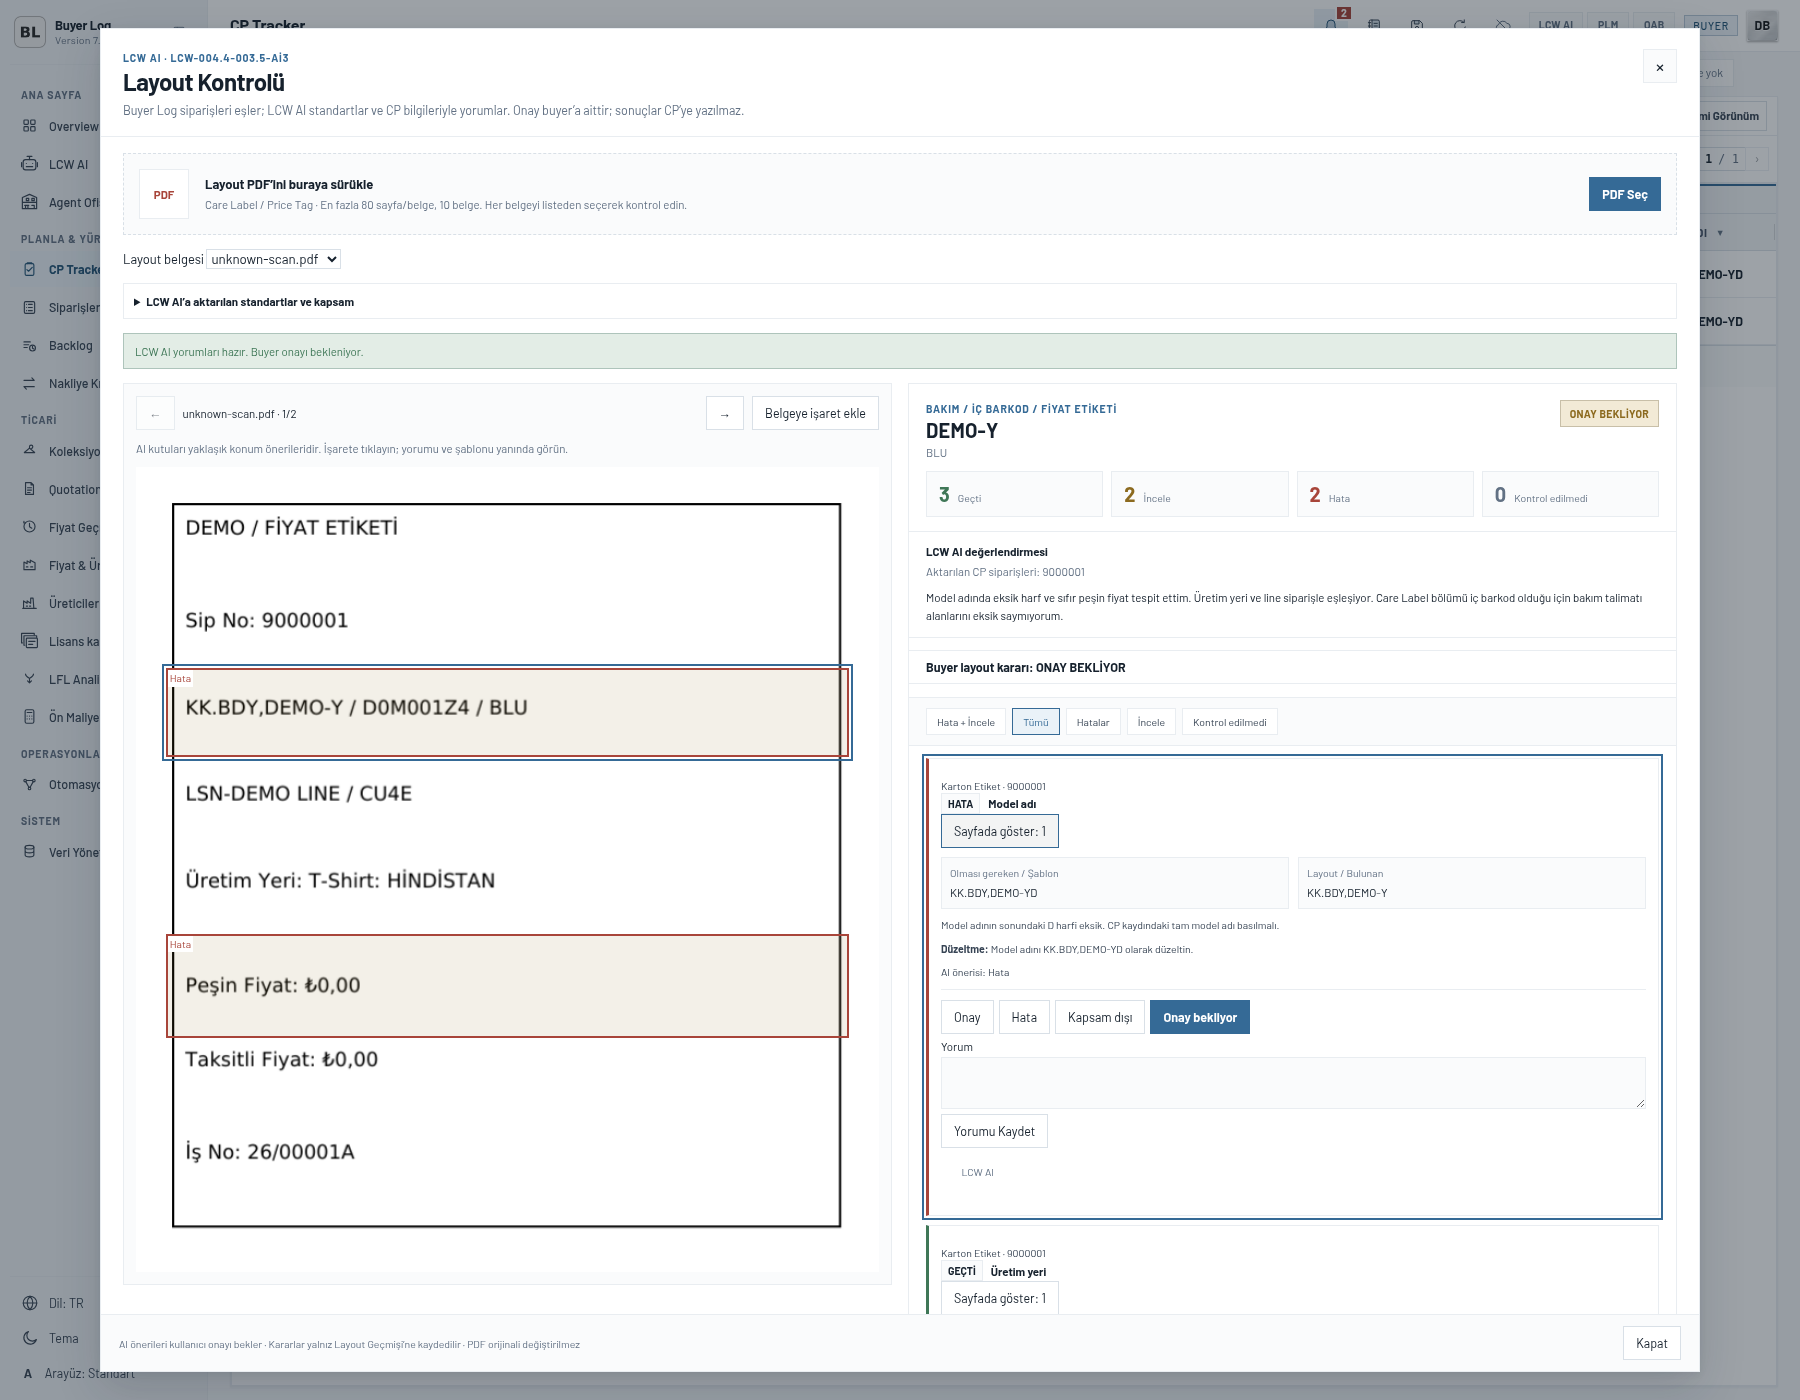
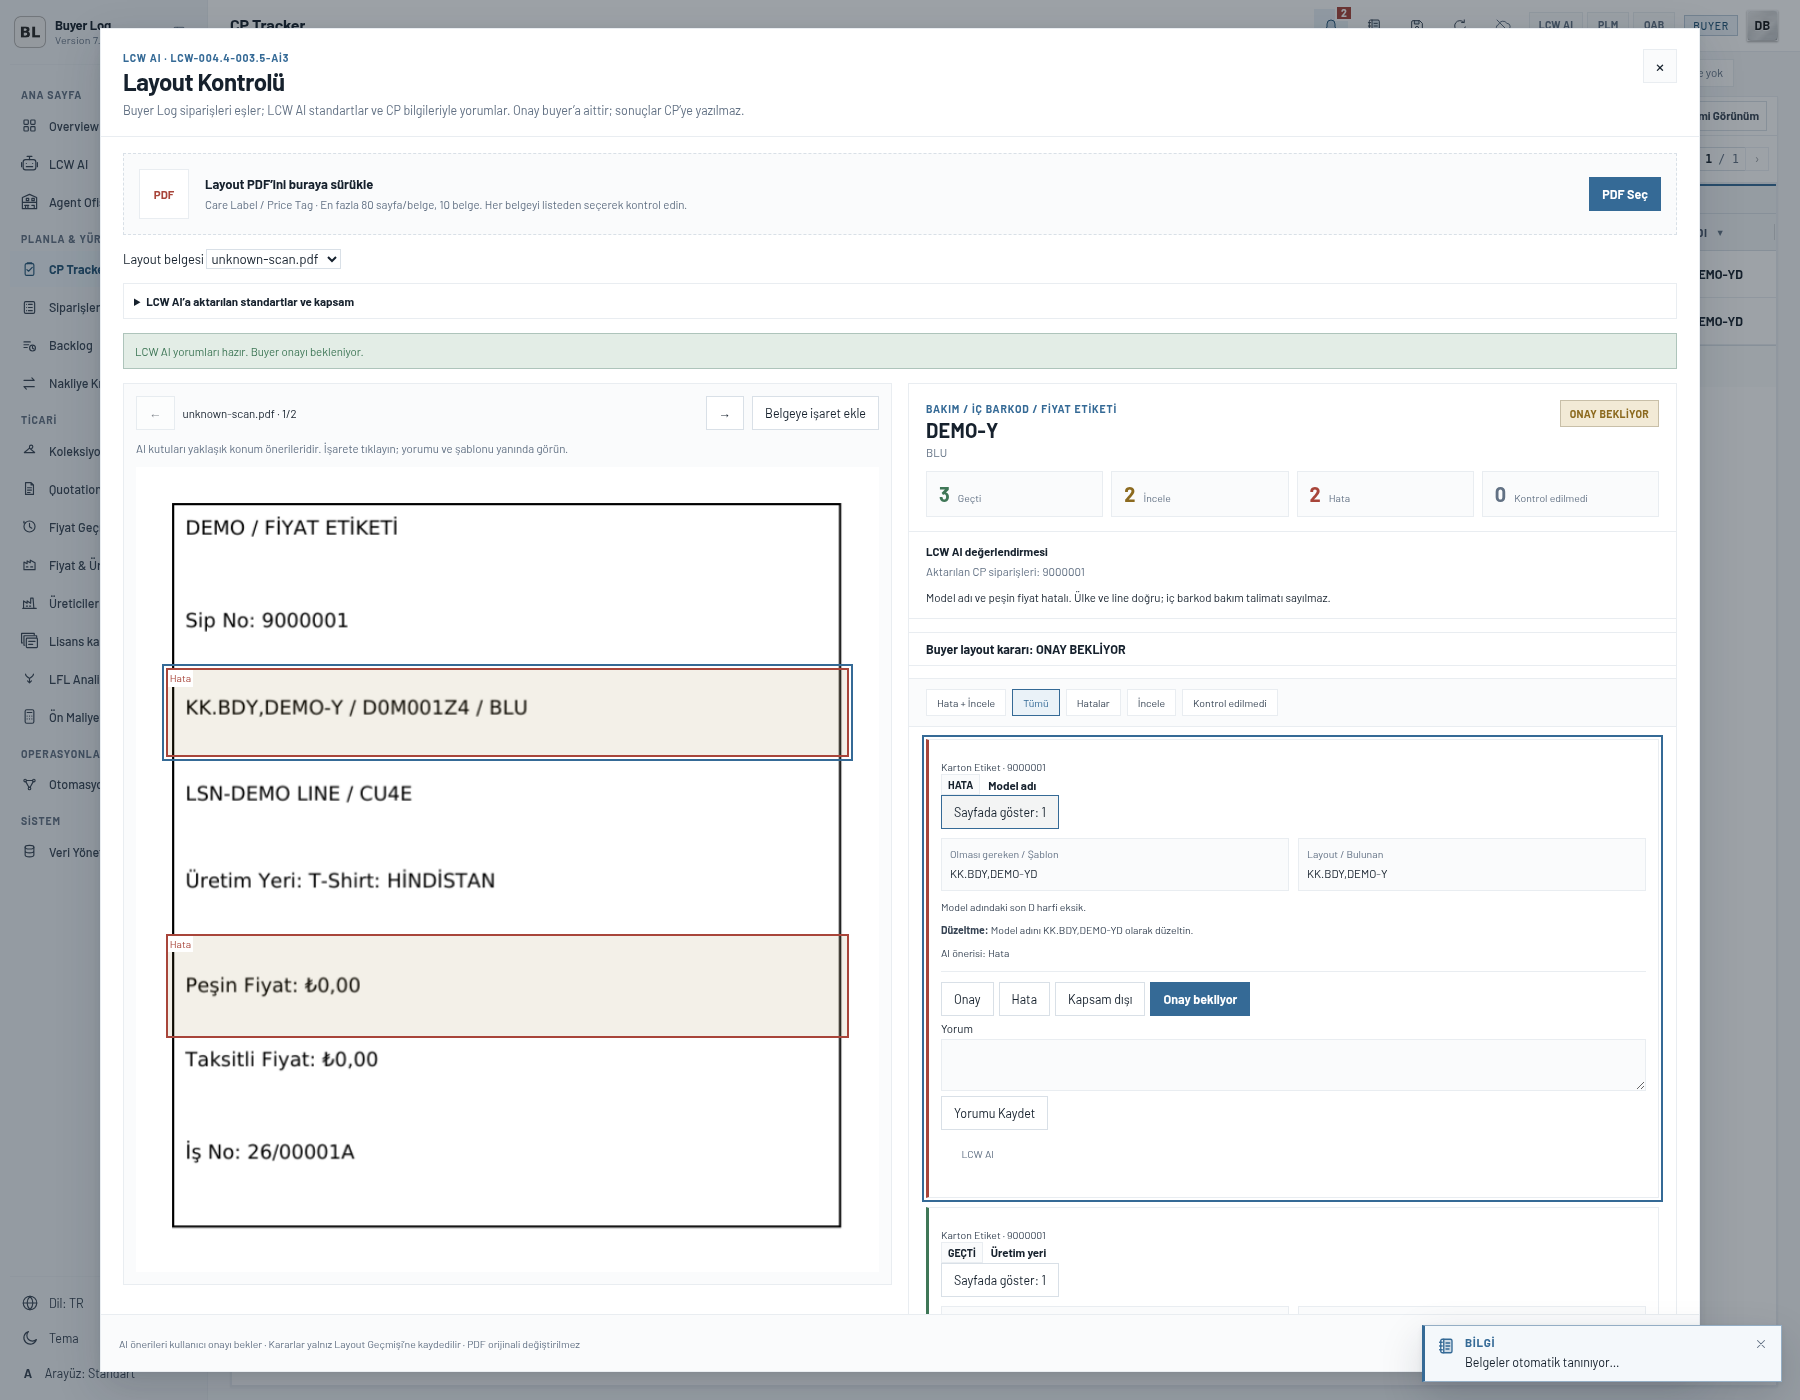
fix(layout-control): request short and direct LCW AI findings

diff --git a/resources/app/server/lib/lcwai/lcwai-prompt.js b/resources/app/server/lib/lcwai/lcwai-prompt.js
@@ -157,7 +157,7 @@ const CONTRACTS = Object.freeze({
     label:{tr:'Layout · LCW AI İncelemesi',en:'Layout · LCW AI Review'},
     fields:Object.freeze({
       documentType:{type:'string',required:true,max:20,hint:{tr:'CARE_LABEL, INNER_BARCODE, PRICE_TAG, MIXED veya UNKNOWN',en:'CARE_LABEL, INNER_BARCODE, PRICE_TAG, MIXED or UNKNOWN'}},
-      summary:{type:'string',required:true,max:5000,hint:{tr:'CP siparişleri ve ekli iki standarda göre incelemenin sonucu; yalnız senin yorumun',en:'Your review conclusion against CP orders and the two attached standards'}},
+      summary:{type:'string',required:true,max:500,hint:{tr:'En fazla iki kısa cümle ve 35 kelime: yalnız sonuç ve öncelikli işlem; giriş/tekrar yok',en:'At most two short sentences and 35 words: only the conclusion and priority action; no introduction or repetition'}},
       inspectedPages:{type:'string[]',required:true,max:8,items:80},
       findings:{type:'string[]',required:true,max:5000,items:120,hint:{tr:'JSON metinleri: {section:CARE_LABEL|INNER_BARCODE|PRICE_TAG|DOCUMENT,field,title,verdict:MATCH|ERROR|REVIEW|NOT_VISIBLE|NOT_APPLICABLE,orderCode,actual,expected,comment,correction,page,bbox:[x,y,w,h],standardType,standardPage,severity}; bulgu, doğru değer ve gerekçeyi sen üret',en:'JSON strings: {section:CARE_LABEL|INNER_BARCODE|PRICE_TAG|DOCUMENT,field,title,verdict:MATCH|ERROR|REVIEW|NOT_VISIBLE|NOT_APPLICABLE,orderCode,actual,expected,comment,correction,page,bbox:[x,y,w,h],standardType,standardPage,severity}; author the finding, correct value and reason yourself'}},
     }),
@@ -362,7 +362,7 @@ function buildPrompt({ source, task, context, guide, lang } = {}) {
         ? 'Reply with ONE JSON object only: no code fence, no text before or after it. Write "explanation" in English.'
         : 'Yalnız TEK bir JSON nesnesiyle cevap ver: kod bloğu yok, öncesinde/sonrasında metin yok. "explanation" Türkçe olsun.');
     } else if(key==='layout-review'){
-      lines.push(english?'Reply with ONE JSON object. Write summary, finding titles, comments and corrections in English. Keep actual printed evidence in its original spelling.':'Yalnız TEK JSON nesnesiyle cevap ver. summary, bulgu başlıkları, yorum ve düzeltmeleri Türkçe yaz. Basılı gerçek kanıtın özgün yazımını koru.');
+      lines.push(english?'Reply with ONE JSON object. Write very short, direct summary, finding titles, comments and corrections in English. Keep actual printed evidence in its original spelling.':'Yalnız TEK JSON nesnesiyle cevap ver. summary, bulgu başlıkları, yorum ve düzeltmeleri Türkçe, çok kısa ve net yaz. Basılı gerçek kanıtın özgün yazımını koru.');
     } else if (key === 'layout-control') {
       lines.push(english
         ? 'Reply with ONE JSON object only: no code fence, no text before or after it. Preserve all extracted label values in the language and spelling printed in the supplied page images; only "explanation" should be English.'
@@ -390,7 +390,7 @@ function buildPrompt({ source, task, context, guide, lang } = {}) {
         ? 'Each CONTEXT.fabrics item is "<code> :: <PLM fabric text>". Write one "cards" line for every code, using exactly that code. "summary" is what a buyer sees in the Collection table: the full fabric type, yarn count, weight and composition in that order. Write it twice: "summary" in Turkish (e.g. "Süprem · 30/1 Ne Penye · 150 gsm · 100% Pamuk") and "summaryEn" in English with standard textile terms (e.g. "Single Jersey · 30/1 Ne Combed · 150 gsm · 100% Cotton"); both carry exactly the same numbers. Product naming convention: spell this fibre as "Polyester" in the Turkish "summary" and "Poliester" in the English "summaryEn" (even though standard English usually spells it "Polyester"). Fill the other fields only from the text; leave a field empty rather than guessing. Never invent, round or compute a number: Buyer Log discards every value whose numbers are not written in the PLM text. Do not use the "|" character inside a value.'
         : 'CONTEXT.fabrics içindeki her öğe "<kod> :: <PLM kumaş metni>" biçimindedir. Her kod için tam o kodu kullanarak bir "cards" satırı yaz. "summary" buyer\'ın Koleksiyon tablosunda gördüğü metindir: karakter sınırı olmadan; sırasıyla kumaş tipi, iplik numarası, gramaj ve karışım. İki kez yaz: "summary" Türkçe (ör. "Süprem · 30/1 Ne Penye · 150 gsm · 100% Pamuk"), "summaryEn" standart tekstil terimleriyle İngilizce (ör. "Single Jersey · 30/1 Ne Combed · 150 gsm · 100% Cotton"); ikisi de birebir aynı sayıları taşır. Ürün adlandırma kuralı: bu elyafı Türkçe "summary" içinde "Polyester", İngilizce "summaryEn" içinde "Poliester" olarak yaz (standart İngilizcede farklı olsa da). Diğer alanları yalnız metinden doldur; tahmin etmek yerine boş bırak. Sayı uydurma, yuvarlama ya da hesaplama: Buyer Log sayıları PLM metninde yazılı olmayan her değeri atar. Bir değerin içinde "|" karakterini kullanma.');
     } else if(key==='layout-review'){
-      lines.push(english?'Reply with ONE JSON object. Write summary, finding titles, comments and corrections in English. Keep actual printed evidence in its original spelling.':'Yalnız TEK JSON nesnesiyle cevap ver. summary, bulgu başlıkları, yorum ve düzeltmeleri Türkçe yaz. Basılı gerçek kanıtın özgün yazımını koru.');
+      lines.push(english?'Be concise: summary at most two short sentences and 35 words; each comment one sentence and 25 words; each correction one action and 15 words. Do not repeat CP facts, introductions or conclusions. Combine compliant checks for the same order/section into one short finding naming those fields. Keep each distinct error and uncertainty; preserve exact identifiers and amounts.':'Kısa yaz: summary en fazla iki kısa cümle ve 35 kelime; her yorum tek cümle ve 25 kelime; her düzeltme tek işlem ve 15 kelime. CP verilerini, giriş veya sonuç paragraflarını tekrarlama. Aynı sipariş/bölümdeki uygun kontrolleri alan adlarını belirterek tek kısa bulguda birleştir. Her ayrı hata ve belirsizliği koru; kod ve tutarları aynen yaz.');
     } else if (key === 'layout-control') {
       lines.push(english
         ? 'Fill the schema only from values visibly supported by the attached layout page images. "warnings" means warnings printed on the product label, not your own cautions. "countries" means manufacturing/country-of-origin only: never treat importer, distributor, company-address or legal-contact countries (for example MAROC in an importer block) as production country. For PRICE_TAG, transcribe the whole visible upper identity/code band verbatim into "identityText" and extract modelCodes, orderNumbers, specialCodes, colourCodes, seasonCodes, magCodes, mmygCodes, lineCodes, productMainDefinitions and countries when their meaning is visually supportable. If an unlabeled slash-separated code cannot be assigned safely, keep it only in identityText rather than guessing its business meaning. Put uncertainty only in "explanation" and lower "confidence". Do not invent CP/reference values.'

diff --git a/resources/app/public/layout-document-reader.js b/resources/app/public/layout-document-reader.js
@@ -115,7 +115,7 @@
     'For an actual care instruction inspect component composition, care-symbol presence/meaning, language coverage/order and translation meaning, LCW address/phone/site, and fire warning applicability/wording/translation/colour/position from the supplied standard and product group. Only review applicable label subtype/market rules. Do not treat a physical-material check or unavailable authoritative washing/size/EAN data as confirmed from a PDF.',
     'Inspect cash and instalment prices separately, zero prices, printed currency, VAT and creation date. CP cashRetailPrice is a reference only when present. FOB is never retail price. If actual sales-price data is unavailable, explain the limit without inventing a correct amount. Distinguish a concrete zero-price issue from an unverified nonzero price.',
     'Use ERROR for concrete visible contradictions, MATCH for supported matches, REVIEW for a specific uncertainty, NOT_VISIBLE when the required evidence is not supplied/readable, NOT_APPLICABLE only when truly outside this product/label scope. Do not generate a generic checklist of routine Review items. Preserve disagreements or unavailable evidence.',
-    'Keep title within 180 characters, actual/expected/comment/correction each within 1200 characters. Return findings as JSON strings {section,field,title,verdict,orderCode,actual,expected,comment,correction,page,bbox,standardType,standardPage,severity}. All comments/titles use the requested language. The field is a canonical CP key where applicable or a descriptive key for another label field.',
+    'Be very brief and direct. The summary is at most two short sentences and 35 words. Each comment is one short sentence of at most 25 words; each correction is one action of at most 15 words. Use a title of at most 60 characters. Do not repeat introductions, conclusions, CP data or the same uncertainty. Group compliant fields for the same section/order into one concise MATCH finding, explicitly naming the verified fields; retain every distinct error or unresolved issue. Quote only the relevant actual/expected values, preserving identifiers and numbers. Keep actual/expected within 1200 characters. Return findings as JSON strings {section,field,title,verdict,orderCode,actual,expected,comment,correction,page,bbox,standardType,standardPage,severity}. All comments/titles use the requested language. The field is a canonical CP key where applicable or a descriptive key for another label field.',
     'Coordinates are normalized [x,y,width,height] from the ORIGINAL layout page top-left, never the standard PDF. Only mark a position visible in context.imagePages; otherwise omit page/bbox. standardType CARE_LABEL or PRICE_TAG and standardPage refer to the supplied reference PDF. Do not invent coordinates.',
     'Each call has the original full PDFs and a subset of rendered pages. Inspect the provided imagePages, list only truly read original page numbers in inspectedPages, and avoid repeating findings about pages outside this image batch. Use the original PDF for cross-page context. Your summary is the user-facing review, not a promise to do it later.'
   ].join('\n');
@@ -135,7 +135,7 @@
         onProgress({phase:'rendering',pages,total:info.pages});
         const images=await pageImages(info,pages,{signal});
         const result=await root.BuyerLogAI.askWithFiles({source:'layout-review',requestId:requestId+'-review-'+start,lang:language,signal,
-          task:language==='en'?'Review the attached layouts using both standards and the linked CP orders. Give your findings and correct values, separately for care instructions, inner barcodes and price tags.':'Ekli layoutları iki standart ve eşleştirilen CP siparişlerine göre incele. Bakım talimatı, iç barkod ve fiyat etiketi için bulgularını, doğru değerleri ve gerekçelerini ayrı ver.',
+          task:language==='en'?'Review the attached layouts using both standards and the linked CP orders. Give very short, direct findings and correct values, separately for care instructions, inner barcodes and price tags.':'Ekli layoutları iki standart ve eşleştirilen CP siparişlerine göre incele. Bakım talimatı, iç barkod ve fiyat etiketi için bulgularını, doğru değerleri ve gerekçelerini çok kısa ve net ver.',
           context,guide:REVIEW_GUIDE,attachments,files:images,onProgress:event=>onProgress({...event,pages,total:info.pages})});
         if(!result||!result.data||result.structured&&result.structured.ok===false)throw new Error('LAYOUT_AI_RESPONSE_INVALID');
         batches.push({pages,data:result.data});

diff --git a/resources/app/tests/layout-ai-review.test.js b/resources/app/tests/layout-ai-review.test.js
@@ -36,6 +36,15 @@ test('review parser rejects oversized findings instead of discarding a final err
  assert.equal(parsed.ok,false);assert.ok(parsed.errors.includes('invalid-array:findings'));
  const valid=prompts.parseStructured(JSON.stringify({documentType:'PRICE_TAG',summary:'AI review',inspectedPages:['1'],findings:[JSON.stringify(finding)]}),'layout-review');assert.equal(valid.ok,true);
 });
+test('LCW AI review requests concise wording without omitting errors or changing evidence',()=>{
+ const prompts=require('../server/lib/lcwai/lcwai-prompt');
+ for(const lang of ['tr','en']){
+  const built=prompts.buildPrompt({source:'layout-review',task:'Review labels',lang});
+  assert.equal(built.truncated,false);assert.match(built.prompt,/35/);assert.match(built.prompt,/25/);assert.match(built.prompt,/15/);
+  assert.match(built.prompt,lang==='tr'?/Her ayrı hata ve belirsizliği koru/:/Keep each distinct error and uncertainty/);
+ }
+ assert.equal(prompts.contractFor('layout-review').fields.summary.max,500);
+});
 test('AI judgments and buyer decisions persist independently without allowing comment edits to rewrite AI evidence',t=>{
  const {spawnSync}=require('node:child_process'),os=require('node:os'),path=require('node:path'),root=fs.mkdtempSync(path.join(os.tmpdir(),'lcwai-review-'));t.after(()=>fs.rmSync(root,{recursive:true,force:true}));
  const script=`const assert=require('node:assert/strict'),s=require('./server/lib/layout-control-store');const run=s.add('owner',{mode:'LCW_AI',documentType:'MIXED',aiSummary:'Original AI conclusion',reference:{status:'MULTIPLE',orderCodes:['1','2']},checks:[{rule:'AI_0',category:'AI_REVIEW',source:'LCW AI',status:'MISMATCH',aiVerdict:'ERROR',title:'Model',field:'modelName',section:'PRICE_TAG',orderCode:'1',actual:['WRONG'],expected:['RIGHT'],detail:'AI reason'}]}).run;assert.equal(run.reviewStatus,'PENDING');const updated=s.review('owner',run.id,{check:{rule:'AI_0',decision:'APPROVED',comment:'Buyer checked',expected:['INJECTED'],detail:'Changed'}}).run;assert.equal(updated.reviewStatus,'APPROVED');assert.equal(updated.checks[0].assessmentStatus,'MISMATCH');assert.equal(updated.checks[0].aiVerdict,'ERROR');assert.deepEqual(updated.checks[0].expected,['RIGHT']);assert.equal(updated.checks[0].detail,'AI reason');assert.equal(updated.aiSummary,'Original AI conclusion');assert.equal(updated.reference.status,'MULTIPLE');assert.throws(()=>s.review('other',run.id,{check:{rule:'AI_0',decision:'REJECTED'}}),/NOT_FOUND/);`;
